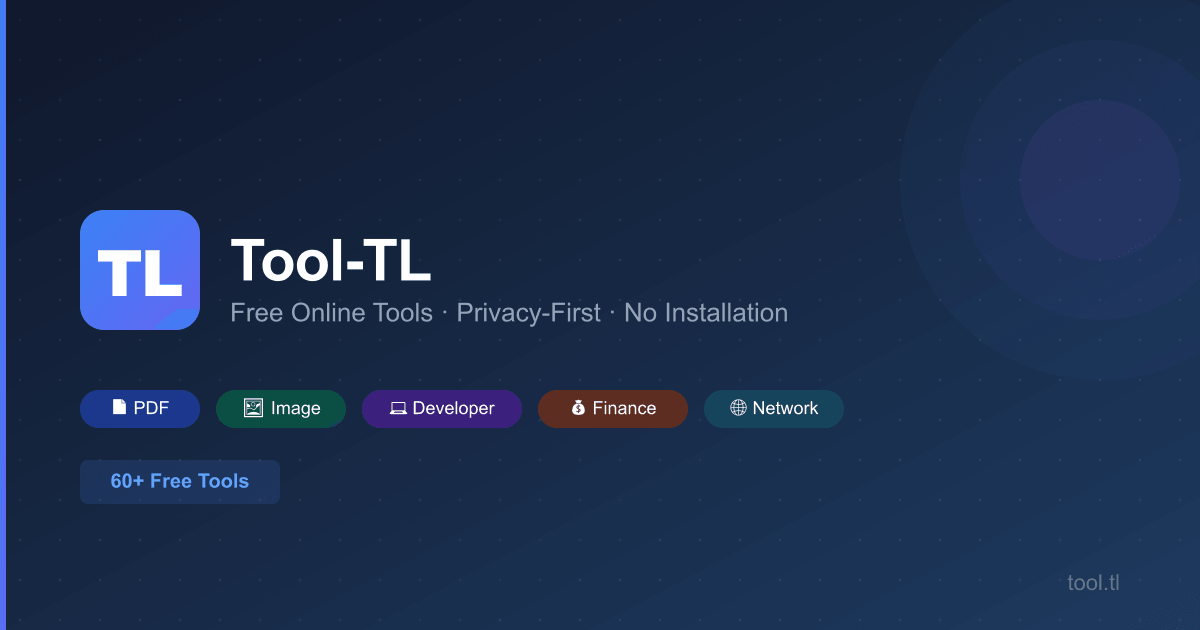
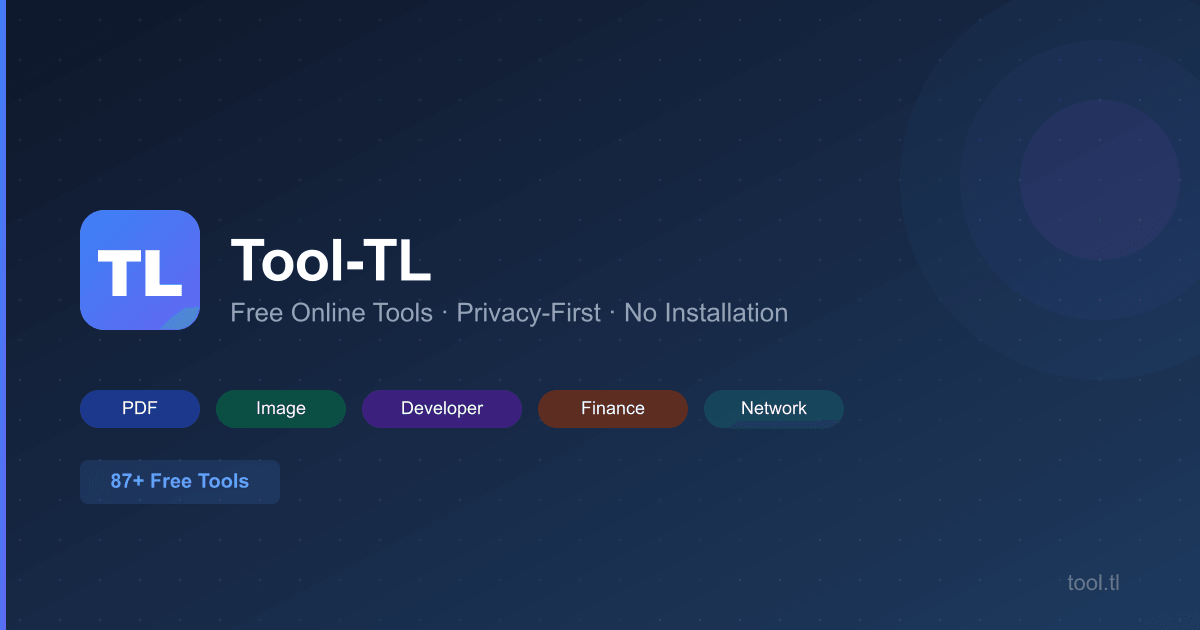
seo: per-tool OG images, fix alt text, add GitHub link, clean robots.txt
- generate-og.mjs now generates 87 per-tool OG images (public/og/[slug].png)
  with category color, tool name, and description; site default also updated
- ToolPageLayout passes per-tool ogImage so each page shares a distinct image
- Fix empty alt="" in Base64EncoderImg, ImageToPdf, ResizeImage, WebpConverter
- Fix generic alt="decoded" in Base64DecoderImg (now localized per language)
- Footer About column: add GitHub "Open Source" link with GitHub icon
- robots.txt: remove non-existent /admin/ disallow rule
- .gitignore: exclude public/og/ (generated at build time)

diff --git a/src/components/tools/Base64DecoderImgTool.tsx b/src/components/tools/Base64DecoderImgTool.tsx
@@ -18,6 +18,7 @@ const i18n: Record<string, Record<string, string>> = {
     errEmpty: 'Please paste Base64 image data first.',
     errInvalid: 'Invalid Base64 data. Could not render image.',
     switchText: '→ Decode Base64 text',
+    imgAlt: 'Decoded image preview',
   },
   'zh-CN': {
     placeholder: '粘贴 Base64 图片数据（支持带或不带 data: 前缀）…',
@@ -29,6 +30,7 @@ const i18n: Record<string, Record<string, string>> = {
     errEmpty: '请先粘贴 Base64 图片数据。',
     errInvalid: '无效的 Base64 数据，无法渲染图片。',
     switchText: '→ 解码 Base64 文本',
+    imgAlt: '解码图片预览',
   },
   'zh-TW': {
     placeholder: '貼上 Base64 圖片資料（支援帶或不帶 data: 前綴）…',
@@ -40,6 +42,7 @@ const i18n: Record<string, Record<string, string>> = {
     errEmpty: '請先貼上 Base64 圖片資料。',
     errInvalid: '無效的 Base64 資料，無法渲染圖片。',
     switchText: '→ 解碼 Base64 文字',
+    imgAlt: '解碼圖片預覽',
   },
   ja: {
     placeholder: 'Base64画像データを貼り付けてください（data: プレフィックス有無どちらも可）…',
@@ -51,6 +54,7 @@ const i18n: Record<string, Record<string, string>> = {
     errEmpty: 'まずBase64画像データを貼り付けてください。',
     errInvalid: '無効なBase64データです。画像を表示できません。',
     switchText: '→ Base64テキストをデコード',
+    imgAlt: 'デコードされた画像プレビュー',
   },
 };
 
@@ -170,7 +174,7 @@ export default function Base64DecoderImgTool({ locale }: Props) {
           <img
             ref={imgRef}
             src={dataUrl}
-            alt="decoded"
+            alt={t.imgAlt}
             onError={handleImgError}
             style={{
               maxWidth: '100%',

diff --git a/src/components/tools/Base64EncoderImgTool.tsx b/src/components/tools/Base64EncoderImgTool.tsx
@@ -145,7 +145,7 @@ export default function Base64EncoderImgTool({ slug, locale }: Props) {
       ) : (
         <div style={{ display: 'flex', alignItems: 'center', gap: '10px', marginBottom: '12px', padding: '10px', border: '1px solid var(--color-border)', borderRadius: '10px', background: 'var(--color-bg)' }}>
           {previewUrl && (
-            <img src={previewUrl} alt="" style={{
+            <img src={previewUrl} alt={file.name} style={{
               width: '56px', height: '56px', objectFit: 'contain', borderRadius: '6px',
               border: '1px solid var(--color-border)', flexShrink: 0,
               background: 'repeating-conic-gradient(#ccc 0% 25%,transparent 0% 50%) 0 0/12px 12px',

diff --git a/src/components/tools/ImageToPdfTool.tsx b/src/components/tools/ImageToPdfTool.tsx
@@ -294,7 +294,7 @@ export default function ImageToPdfTool({ slug, locale }: Props) {
                   background: 'var(--color-bg)',
                 }}
               >
-                <img src={item.url} alt="" style={{ width: '100%', height: '80px', objectFit: 'cover', display: 'block' }} />
+                <img src={item.url} alt={item.name} style={{ width: '100%', height: '80px', objectFit: 'cover', display: 'block' }} />
                 <div style={{ padding: '0.25rem 0.35rem', fontSize: '0.68rem', color: 'var(--color-text-secondary)', whiteSpace: 'nowrap', overflow: 'hidden', textOverflow: 'ellipsis' }}>
                   {item.name}
                 </div>

diff --git a/src/components/tools/ResizeImageTool.tsx b/src/components/tools/ResizeImageTool.tsx
@@ -261,7 +261,7 @@ export default function ResizeImageTool({ slug, locale }: Props) {
           {/* 文件信息条 */}
           <div style={{ display: 'flex', alignItems: 'center', gap: '10px', marginBottom: '1rem' }}>
             {previewUrl && (
-              <img src={previewUrl} alt="" style={{
+              <img src={previewUrl} alt={file.name} style={{
                 width: '60px', height: '60px', objectFit: 'contain', borderRadius: '6px',
                 border: '1px solid var(--color-border)', flexShrink: 0,
                 background: 'repeating-conic-gradient(#ccc 0% 25%,transparent 0% 50%) 0 0/12px 12px',

diff --git a/src/components/tools/WebpConverterTool.tsx b/src/components/tools/WebpConverterTool.tsx
@@ -204,7 +204,7 @@ export default function WebpConverterTool({ slug, apiEndpoint, locale, defaultMo
       ) : (
         <div style={{ display: 'flex', alignItems: 'center', gap: '10px', ...card }}>
           {previewUrl && (
-            <img src={previewUrl} alt="" style={{
+            <img src={previewUrl} alt={file.name} style={{
               width: '60px', height: '60px', objectFit: 'contain', borderRadius: '6px',
               border: '1px solid var(--color-border)', flexShrink: 0,
               background: 'repeating-conic-gradient(#ccc 0% 25%,transparent 0% 50%) 0 0/12px 12px',
